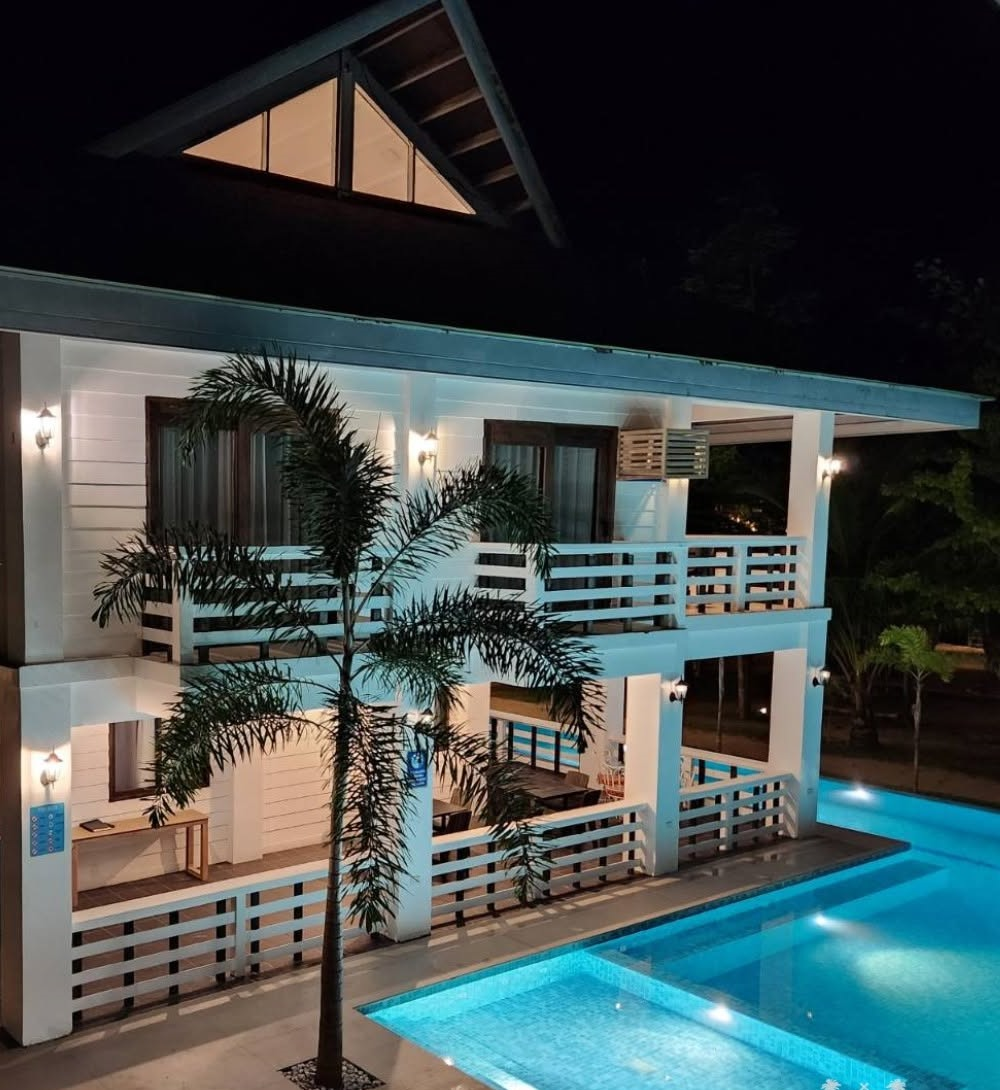
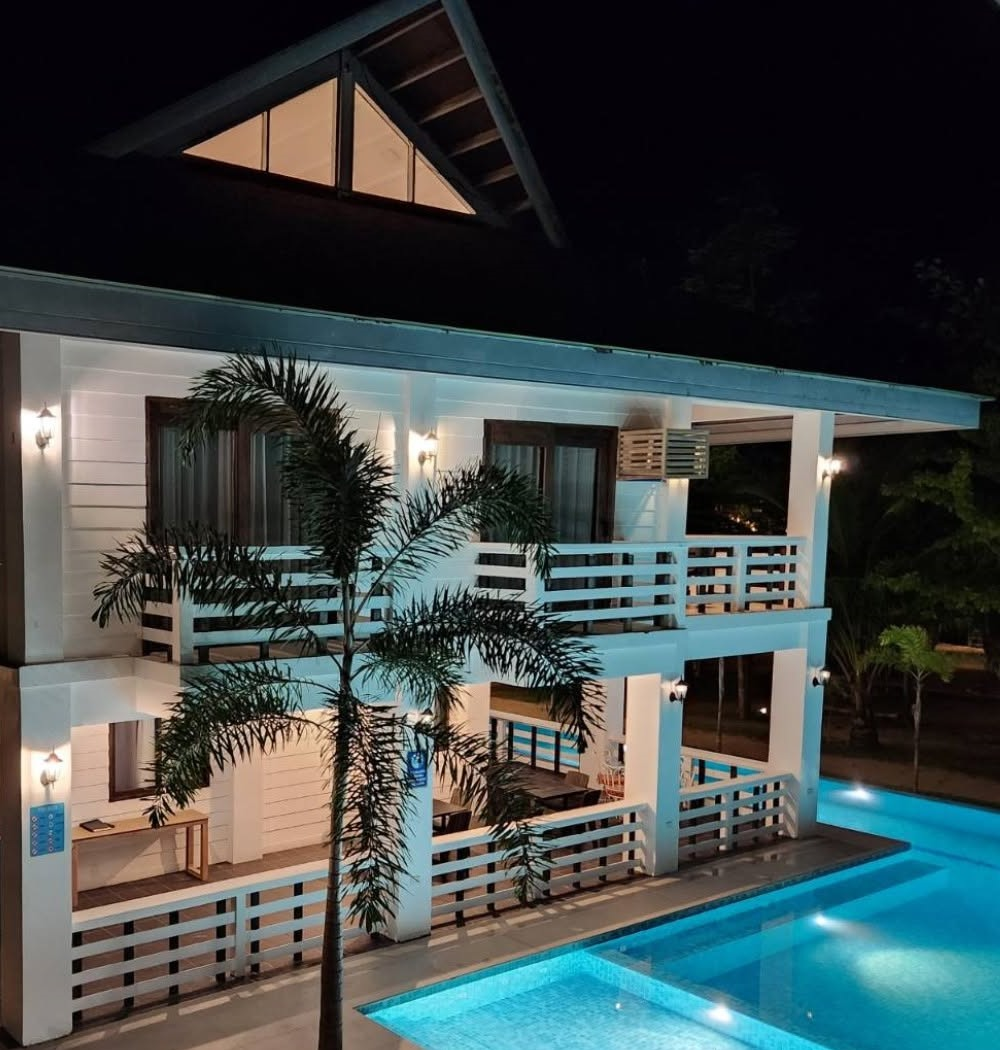
Night pool photo in the Pool Suite arch; one capitalised serif style for all headings

diff --git a/gallery.html b/gallery.html
@@ -28,7 +28,7 @@
   <link rel="preconnect" href="https://fonts.googleapis.com">
   <link rel="preconnect" href="https://fonts.gstatic.com" crossorigin>
   <link rel="stylesheet" href="https://fonts.googleapis.com/css2?family=Playfair+Display:ital,wght@0,400;0,500;1,400&family=Jost:wght@400;500&display=swap">
-  <link rel="stylesheet" href="assets/css/styles.css?v=4.3">
+  <link rel="stylesheet" href="assets/css/styles.css?v=4.4">
   <script src="assets/js/main.js?v=4.2" defer></script>
 </head>
 <body class="inner">
@@ -108,7 +108,7 @@
           <li data-cat="beach" class="g g--tall"><button type="button" data-full="assets/img/beach-outrigger-1290.jpg" data-w="1290" data-h="1601" data-caption="Outrigger boats on the resort's beach"><img src="assets/img/beach-outrigger-720.jpg" width="720" height="894" loading="lazy" decoding="async" style="--pos: 50% 65%" alt="An outrigger boat on the sand between two resort flags"></button></li>
           <li data-cat="kubo" class="g"><button type="button" data-full="assets/img/kubo-interior-loft-936.jpg" data-w="936" data-h="856" data-caption="Inside the Luxury Kubo: stairs to the loft and the kitchen corner"><img src="assets/img/kubo-interior-loft-560.jpg" width="560" height="512" loading="lazy" decoding="async" style="--pos: 55% 55%" alt="Timber stairs to the Kubo loft beside glass-fronted cabinets and a small refrigerator"></button></li>
           <li data-cat="grounds" class="g"><button type="button" data-full="assets/img/campsite-tents-936.jpg" data-w="936" data-h="856" data-caption="The campsite under the palms"><img src="assets/img/campsite-tents-560.jpg" width="560" height="512" loading="lazy" decoding="async" style="--pos: 50% 60%" alt="Tents on a lawn under tall coconut palms"></button></li>
-          <li data-cat="pool" class="g"><button type="button" data-full="assets/img/night-pool-building-1000.jpg" data-w="1000" data-h="1090" data-caption="The main building and pool at night"><img src="assets/img/night-pool-building-720.jpg" width="720" height="785" loading="lazy" decoding="async" style="--pos: 70% 100%" alt="Lit verandas of the main building above the glowing pool"></button></li>
+          <li data-cat="pool" class="g"><button type="button" data-full="assets/img/night-pool-building-1000.jpg" data-w="1000" data-h="1050" data-caption="The main building and pool at night"><img src="assets/img/night-pool-building-720.jpg" width="720" height="756" loading="lazy" decoding="async" style="--pos: 70% 100%" alt="Lit verandas of the main building above the glowing pool"></button></li>
           <li data-cat="rooms" class="g"><button type="button" data-full="assets/img/loft-single-beds-936.jpg" data-w="936" data-h="856" data-caption="Single beds on a loft level in the main building"><img src="assets/img/loft-single-beds-560.jpg" width="560" height="512" loading="lazy" decoding="async" style="--pos: 45% 60%" alt="Three single beds with timber frames under a sloping white ceiling"></button></li>
           <li data-cat="beach" class="g g--wide"><button type="button" data-full="assets/img/sunset-boat-1400.jpg" data-w="1400" data-h="661" data-caption="Sunset over the water"><img src="assets/img/sunset-boat-720.jpg" width="720" height="340" loading="lazy" decoding="async" style="--pos: 50% 50%" alt="An orange sunset over calm water with a boat at the shore"></button></li>
           <li data-cat="grounds" class="g"><button type="button" data-full="assets/img/bonfire-circle-936.jpg" data-w="936" data-h="856" data-caption="The bonfire circle on the lawn"><img src="assets/img/bonfire-circle-560.jpg" width="560" height="512" loading="lazy" decoding="async" style="--pos: 50% 55%" alt="Timber benches around a bonfire pit on a sunny lawn"></button></li>

diff --git a/assets/css/styles.css b/assets/css/styles.css
@@ -945,3 +945,12 @@ body { font-weight: 400; letter-spacing: .005em; }
 @media (max-width: 639.98px) { .contact-icons { flex-direction: column; align-items: flex-start; width: max-content; max-width: 100%; margin-inline: auto; } }
 .flow-hero__img { object-position: 50% 45%; } @media (max-width: 699.98px) { .flow-hero__img { object-position: 40% 50%; } }
 .flow-hero__shade { background: linear-gradient(to bottom, rgba(6,18,28,.42), rgba(6,18,28,.12) 42%, rgba(6,18,28,0) 55%), radial-gradient(ellipse 48% 46% at 84% 82%, rgba(5,15,24,.7), rgba(5,15,24,.3) 55%, rgba(5,15,24,0) 80%); } @media (max-width: 699.98px) { .flow-hero__shade { background: linear-gradient(to bottom, rgba(6,18,28,.42), rgba(6,18,28,0) 45%), linear-gradient(to top, rgba(6,18,28,.7), rgba(6,18,28,0) 55%); } }
+
+/* One heading style everywhere: Playfair Display in capitals, as in the reference */
+.room__name, .stop h3, .stop h2, .boat h3, .menu-group, .dish h3, .mini h3, .package h3, .qa summary, .toc-card h3, .pets h2, .van h2 {
+  font-family: var(--font-display); text-transform: uppercase; font-weight: 400; letter-spacing: 0; line-height: 1.12;
+}
+.room__name { font-size: clamp(1.3rem, 1.1rem + .6vw, 1.6rem); }
+.stop h3, .stop h2 { font-size: clamp(1.15rem, 1rem + .4vw, 1.35rem); }
+.qa summary { font-size: clamp(1.05rem, .95rem + .4vw, 1.25rem); }
+.page-intro .label, .label:not(.label--caps) { font-size: .76rem; font-weight: 500; letter-spacing: .2em; text-transform: uppercase; }

diff --git a/index.html b/index.html
@@ -30,7 +30,7 @@
   <link rel="preconnect" href="https://fonts.googleapis.com">
   <link rel="preconnect" href="https://fonts.gstatic.com" crossorigin>
   <link rel="stylesheet" href="https://fonts.googleapis.com/css2?family=Playfair+Display:ital,wght@0,400;0,500;1,400&family=Jost:wght@400;500&display=swap">
-  <link rel="stylesheet" href="assets/css/styles.css?v=4.3">
+  <link rel="stylesheet" href="assets/css/styles.css?v=4.4">
 
   <script type="application/ld+json">
   {
@@ -155,9 +155,9 @@
       </article>
 
       <article class="feature-flow" data-reveal>
-        <figure class="arch" style="--pos: 40% 60%">
-          <img src="assets/img/room-pool-suite-588.jpg" width="588" height="402" loading="lazy" decoding="async"
-               alt="Inside the Pool Suite Room: a queen bed with a padded bench, a green sofa and a kitchen counter with bar stools">
+        <figure class="arch" style="--pos: 58% 62%">
+          <img src="assets/img/night-pool-building-1000.jpg" srcset="assets/img/night-pool-building-720.jpg 720w, assets/img/night-pool-building-1000.jpg 1000w" sizes="(min-width: 900px) 30vw, 80vw" width="1000" height="1050" loading="lazy" decoding="async"
+               alt="A two-storey white building with lit balconies and a palm, beside the glowing turquoise pool at night">
         </figure>
         <div class="feature-flow__text">
           <p class="label label--caps">Featured Stay · Pool Suite Room</p>

diff --git a/activities.html b/activities.html
@@ -28,7 +28,7 @@
   <link rel="preconnect" href="https://fonts.googleapis.com">
   <link rel="preconnect" href="https://fonts.gstatic.com" crossorigin>
   <link rel="stylesheet" href="https://fonts.googleapis.com/css2?family=Playfair+Display:ital,wght@0,400;0,500;1,400&family=Jost:wght@400;500&display=swap">
-  <link rel="stylesheet" href="assets/css/styles.css?v=4.3">
+  <link rel="stylesheet" href="assets/css/styles.css?v=4.4">
   <script src="assets/js/main.js?v=4.2" defer></script>
 </head>
 <body class="inner">

diff --git a/contact.html b/contact.html
@@ -28,7 +28,7 @@
   <link rel="preconnect" href="https://fonts.googleapis.com">
   <link rel="preconnect" href="https://fonts.gstatic.com" crossorigin>
   <link rel="stylesheet" href="https://fonts.googleapis.com/css2?family=Playfair+Display:ital,wght@0,400;0,500;1,400&family=Jost:wght@400;500&display=swap">
-  <link rel="stylesheet" href="assets/css/styles.css?v=4.3">
+  <link rel="stylesheet" href="assets/css/styles.css?v=4.4">
   <script src="assets/js/main.js?v=4.2" defer></script>
 </head>
 <body class="inner">

diff --git a/dining.html b/dining.html
@@ -28,7 +28,7 @@
   <link rel="preconnect" href="https://fonts.googleapis.com">
   <link rel="preconnect" href="https://fonts.gstatic.com" crossorigin>
   <link rel="stylesheet" href="https://fonts.googleapis.com/css2?family=Playfair+Display:ital,wght@0,400;0,500;1,400&family=Jost:wght@400;500&display=swap">
-  <link rel="stylesheet" href="assets/css/styles.css?v=4.3">
+  <link rel="stylesheet" href="assets/css/styles.css?v=4.4">
   <script src="assets/js/main.js?v=4.2" defer></script>
 </head>
 <body class="inner">

diff --git a/getting-here.html b/getting-here.html
@@ -28,7 +28,7 @@
   <link rel="preconnect" href="https://fonts.googleapis.com">
   <link rel="preconnect" href="https://fonts.gstatic.com" crossorigin>
   <link rel="stylesheet" href="https://fonts.googleapis.com/css2?family=Playfair+Display:ital,wght@0,400;0,500;1,400&family=Jost:wght@400;500&display=swap">
-  <link rel="stylesheet" href="assets/css/styles.css?v=4.3">
+  <link rel="stylesheet" href="assets/css/styles.css?v=4.4">
   <script src="assets/js/main.js?v=4.2" defer></script>
 </head>
 <body class="inner">

diff --git a/good-to-know.html b/good-to-know.html
@@ -28,7 +28,7 @@
   <link rel="preconnect" href="https://fonts.googleapis.com">
   <link rel="preconnect" href="https://fonts.gstatic.com" crossorigin>
   <link rel="stylesheet" href="https://fonts.googleapis.com/css2?family=Playfair+Display:ital,wght@0,400;0,500;1,400&family=Jost:wght@400;500&display=swap">
-  <link rel="stylesheet" href="assets/css/styles.css?v=4.3">
+  <link rel="stylesheet" href="assets/css/styles.css?v=4.4">
   <script src="assets/js/main.js?v=4.2" defer></script>
 </head>
 <body class="inner">

diff --git a/groups.html b/groups.html
@@ -28,7 +28,7 @@
   <link rel="preconnect" href="https://fonts.googleapis.com">
   <link rel="preconnect" href="https://fonts.gstatic.com" crossorigin>
   <link rel="stylesheet" href="https://fonts.googleapis.com/css2?family=Playfair+Display:ital,wght@0,400;0,500;1,400&family=Jost:wght@400;500&display=swap">
-  <link rel="stylesheet" href="assets/css/styles.css?v=4.3">
+  <link rel="stylesheet" href="assets/css/styles.css?v=4.4">
   <script src="assets/js/main.js?v=4.2" defer></script>
 </head>
 <body class="inner">

diff --git a/rooms.html b/rooms.html
@@ -28,7 +28,7 @@
   <link rel="preconnect" href="https://fonts.googleapis.com">
   <link rel="preconnect" href="https://fonts.gstatic.com" crossorigin>
   <link rel="stylesheet" href="https://fonts.googleapis.com/css2?family=Playfair+Display:ital,wght@0,400;0,500;1,400&family=Jost:wght@400;500&display=swap">
-  <link rel="stylesheet" href="assets/css/styles.css?v=4.3">
+  <link rel="stylesheet" href="assets/css/styles.css?v=4.4">
   <script src="assets/js/main.js?v=4.2" defer></script>
 </head>
 <body class="inner">
